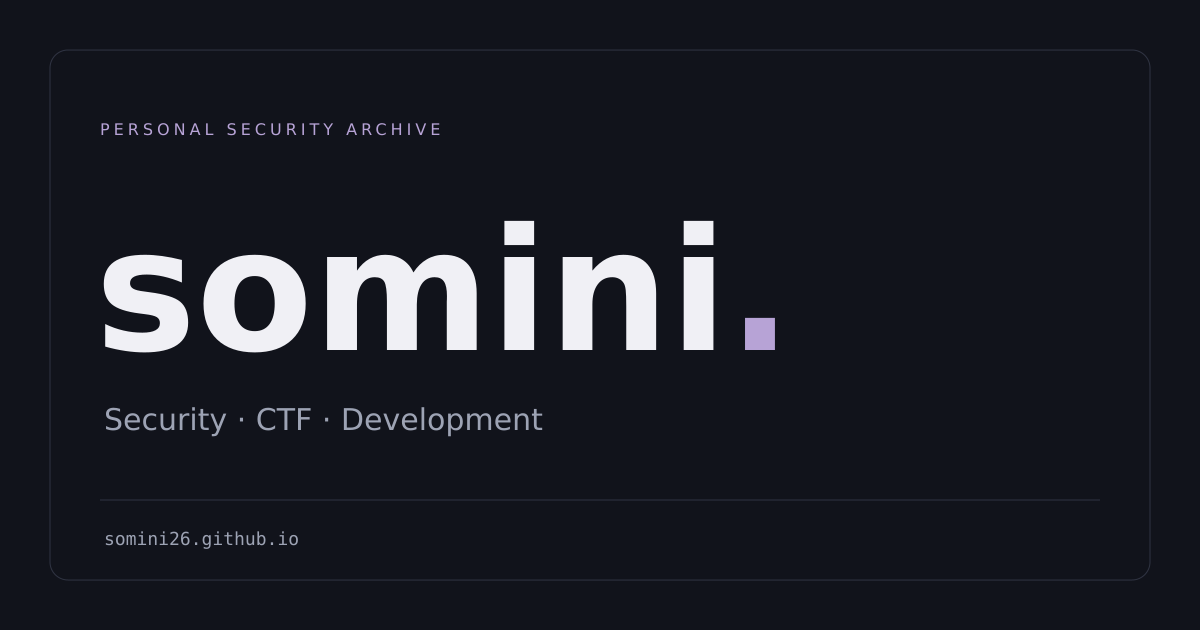
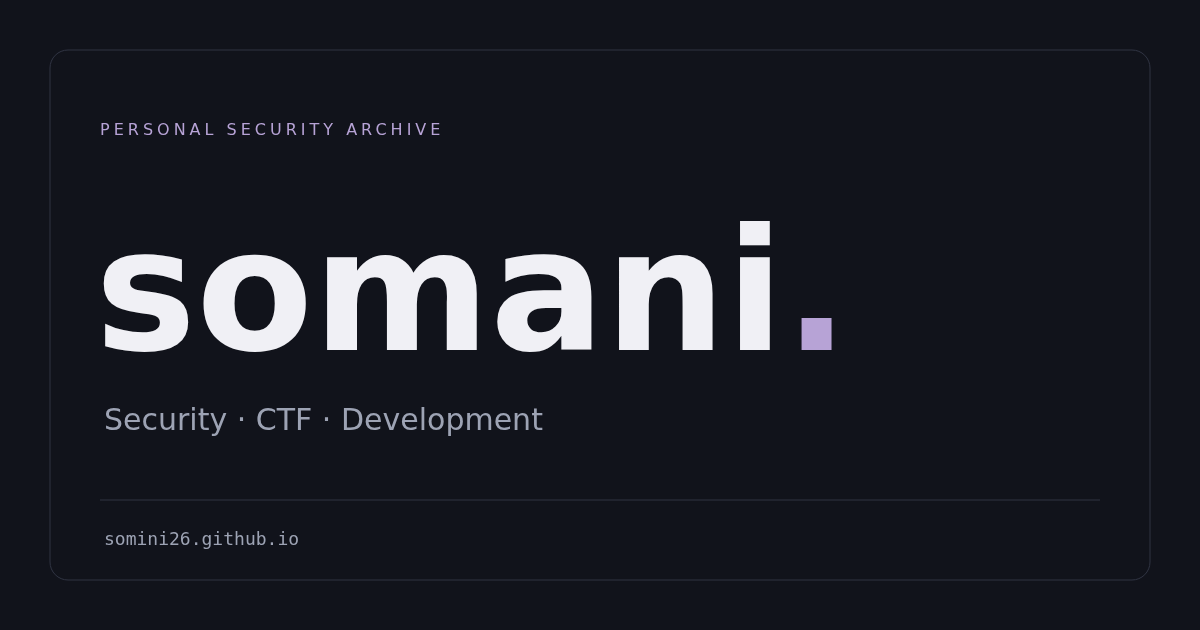
Rename blog nickname to somani

Changed region(s): [[0.4008, 0.3317, 0.7092, 0.573], [0.3392, 0.6635, 0.37, 0.6937], [0.0925, 0.6635, 0.1233, 0.6937]]

diff --git a/tests/blog.spec.js b/tests/blog.spec.js
@@ -6,7 +6,7 @@ test("navigation, six category pages, empty states and accessibility", async ({
   const errors = [];
   page.on("pageerror", (e) => errors.push(e.message));
   await page.goto("/");
-  await expect(page.locator("h1")).toHaveText("somini.");
+  await expect(page.locator("h1")).toHaveText("somani.");
   if (testInfo.project.name === "mobile") {
     await page.getByRole("button", { name: "메뉴" }).click();
     await expect(

diff --git a/README.md b/README.md
@@ -1,8 +1,8 @@
 # somini26.github.io
 
-somini's archive | CTF · Security · Development
+somani's archive | CTF · Security · Development
 
-**somini**가 보안과 개발을 공부하며 배운 내용을 기록하는 개인 기술 블로그입니다. Knights Frontier 3기 첫 번째 미션의 목적에 맞춰, 계속 글을 추가하고 관리할 수 있는 Markdown 기반 아카이브로 구성했습니다.
+**somani**가 보안과 개발을 공부하며 배운 내용을 기록하는 개인 기술 블로그입니다. Knights Frontier 3기 첫 번째 미션의 목적에 맞춰, 계속 글을 추가하고 관리할 수 있는 Markdown 기반 아카이브로 구성했습니다.
 
 - 블로그 주소: **https://somini26.github.io**
 - GitHub 프로필: https://github.com/somini26
@@ -80,7 +80,7 @@ description: "이 글에서 다루는 내용을 간단히 소개합니다."
 
 ````markdown
 ```python
-print("Hello, somini")
+print("Hello, somani")
 ```
 ````
 
@@ -139,13 +139,13 @@ Pull Request에서는 빌드와 검사만 실행하고 배포하지 않습니다
 1. GitHub 저장소의 **Settings → Pages**에 들어갑니다.
 2. **Build and deployment → Source → GitHub Actions**를 선택합니다. `Deploy from a branch`와 병행하지 않습니다.
 3. **Actions**에서 워크플로 실행이 허용되어 있는지 확인합니다.
-4. 로컬 변경을 커밋하고 `main`에 push합니다. 이미 push했다면 **Actions → Build and deploy somini archive → Run workflow → main**으로 실행할 수 있습니다.
+4. 로컬 변경을 커밋하고 `main`에 push합니다. 이미 push했다면 **Actions → Build and deploy somani archive → Run workflow → main**으로 실행할 수 있습니다.
 5. 작업의 `build`, `deploy` 성공 여부와 배포 URL을 확인합니다.
 6. `https://somini26.github.io` 및 `/archive/`, `/categories/blog-docs/`, `/posts/github-pages-blog/`를 직접 열어 확인합니다.
 
 ```bash
 git add .
-git commit -m "Build somini security archive"
+git commit -m "Build somani security archive"
 git push origin main
 ```
 
